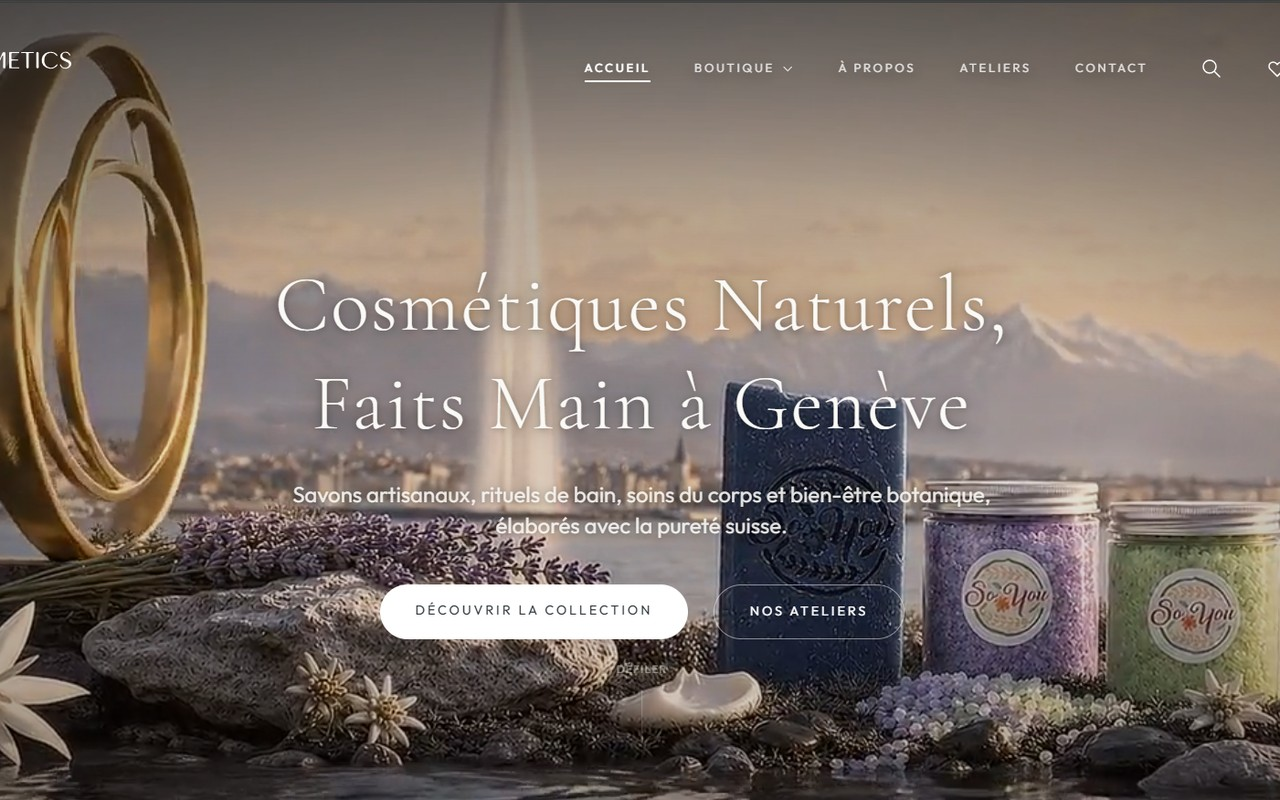
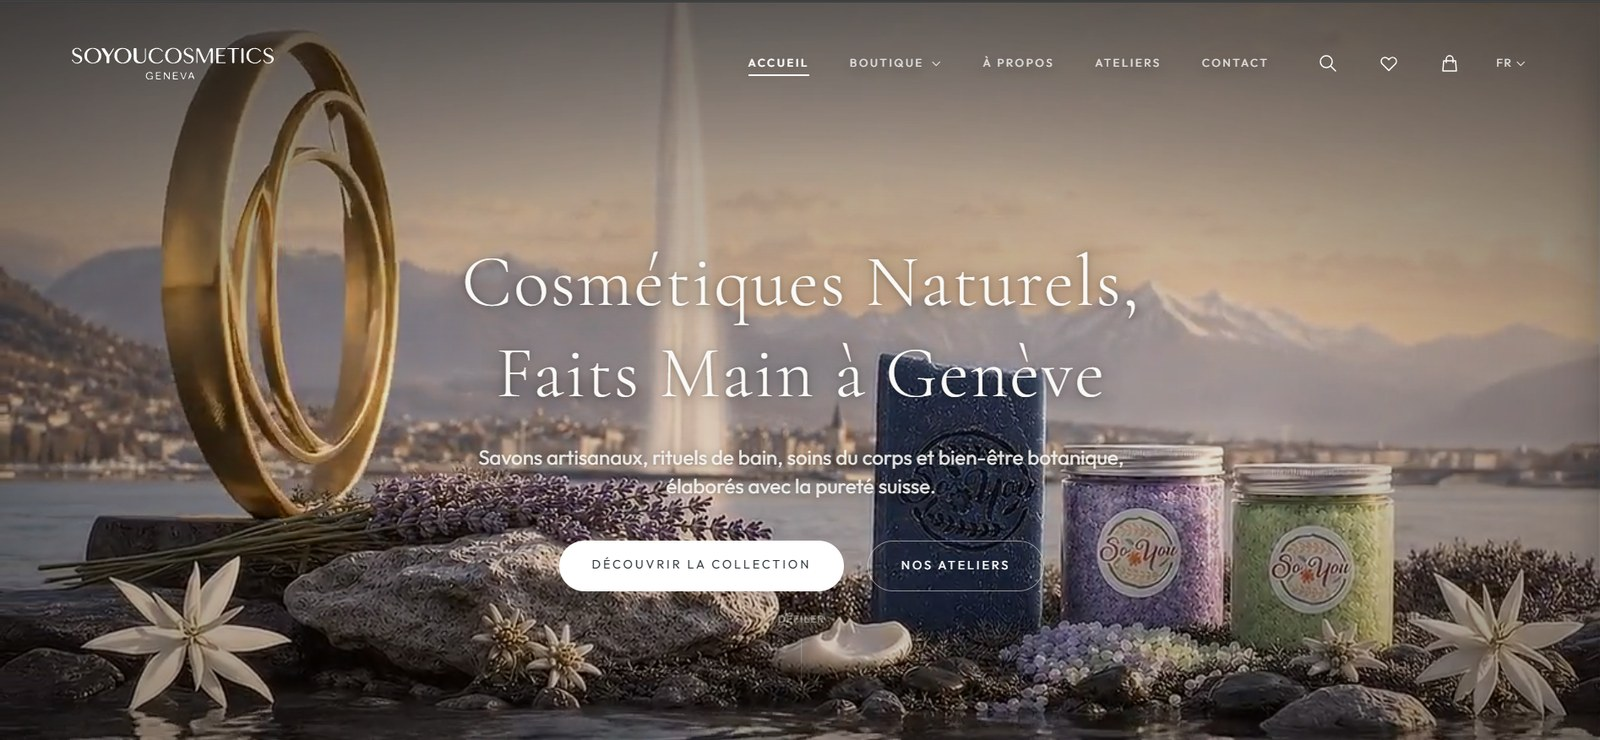
Work: SoYou tile shows the full hero (frame matches screenshot ratio, no crop)
Use the uncropped 2.16:1 screenshot and set the canvas aspect-ratio to match so
object-fit cover no longer shaves the sides (logo + jars now fully visible).

diff --git a/our-work.html b/our-work.html
@@ -99,7 +99,7 @@
       <div class="wk-row-media">
         <div class="wk-frame">
           <div class="wk-bar"><i></i><i></i><i></i><span class="wk-url">soyoucosmetics.com</span></div>
-          <div class="wk-canvas r-1610" data-img="assets/work/soyou-cosmetics.jpg" data-alt="SoYou Cosmetics — website"><div class="wk-media m-web"></div></div>
+          <div class="wk-canvas" style="aspect-ratio:1600/740" data-img="assets/work/soyou-cosmetics.jpg" data-alt="SoYou Cosmetics — website"><div class="wk-media m-web"></div></div>
         </div>
       </div>
       <div class="wk-row-info">